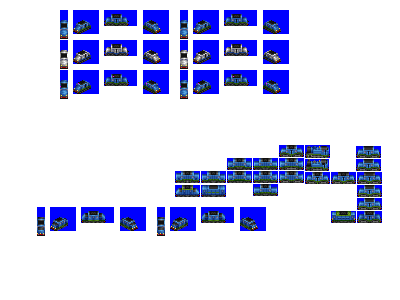
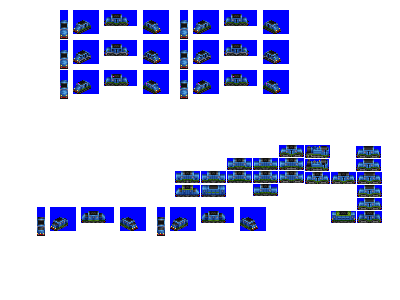
Change: additional livery for Stoat

diff --git a/src/rosters/pony.py b/src/rosters/pony.py
@@ -304,6 +304,13 @@ def main():
                     ("COLOUR_DARK_BLUE", "COLOUR_WHITE"),
                 ],
             },
+            "INDUSTRIAL": {
+                "remap_to_cc": None,
+                "docs_image_input_cc": [
+                    ("COLOUR_RED", "COLOUR_WHITE"),
+                    ("COLOUR_DARK_BLUE", "COLOUR_WHITE"),
+                ],
+            },
             "BANGER_BLUE": {
                 "remap_to_cc": None,
                 "docs_image_input_cc": [

diff --git a/src/vehicles/stoat.py b/src/vehicles/stoat.py
@@ -18,8 +18,8 @@ def main(roster_id):
         gen=2,
         intro_year_offset=3,  # introduce later than gen epoch by design
         fixed_run_cost_points=105,  # substantial cost bonus so it can make money
-        additional_liveries=["FREIGHT_BLACK"],
-        sprites_complete=False,
+        additional_liveries=["INDUSTRIAL"],
+        sprites_complete=True,
     )
 
     consist.add_unit(
